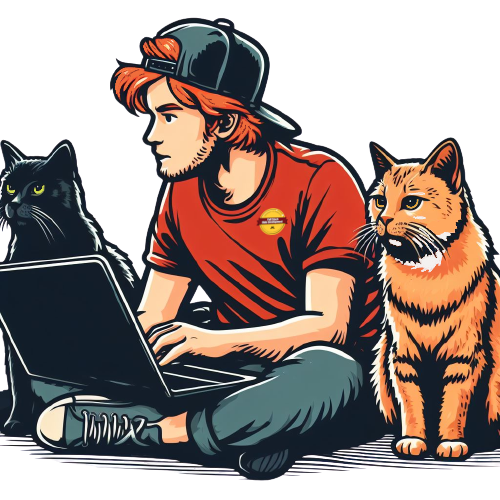
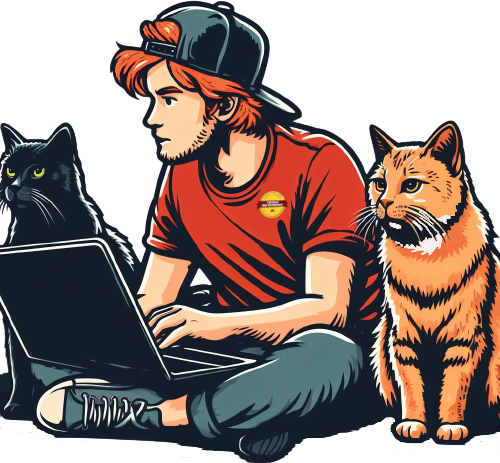
slightly moved down me-cats-art image and altered image to make it appear my cats and I are sitting on top of the following div element

diff --git a/src/App.css b/src/App.css
@@ -81,7 +81,7 @@ label {
 .me-cats-art {
   float: right;
   width: 18em;
-  margin: 0.5em 1em 0.5em 1em;
+  margin: 0.5em 1em -3em 1em;
 }
 
 #project-title {
